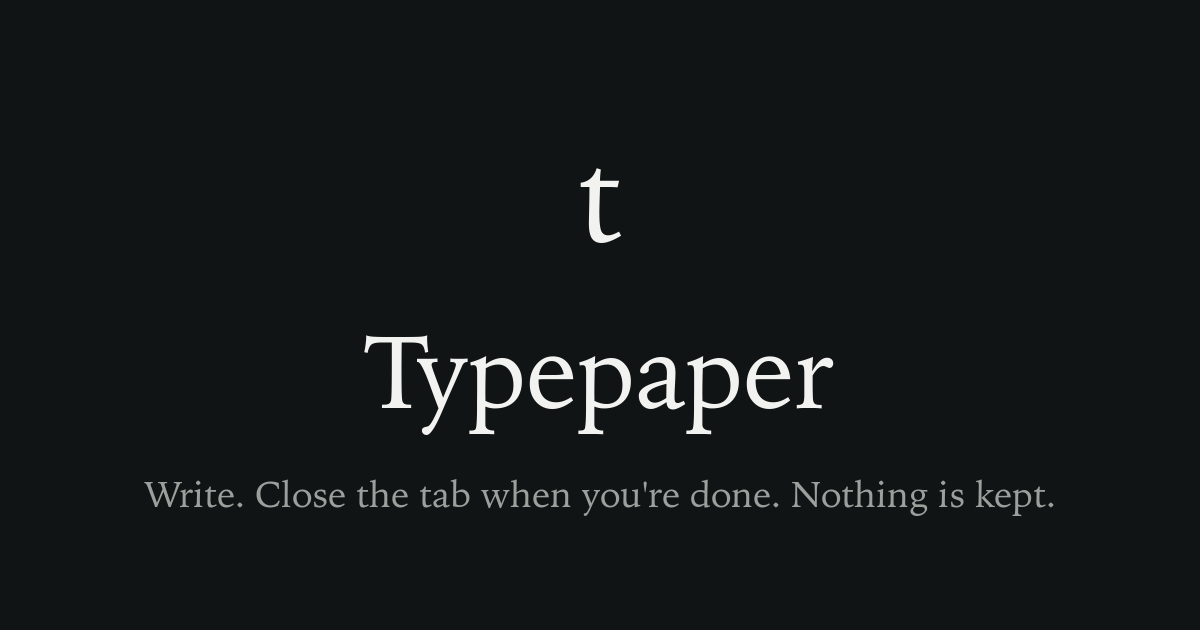
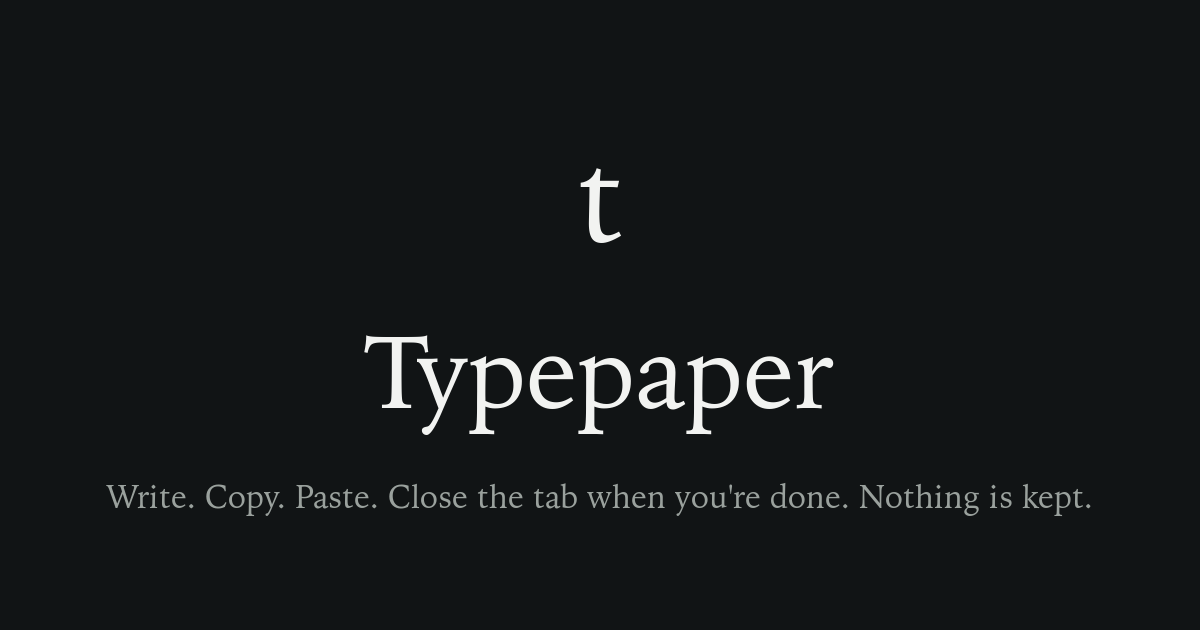
Logline: "Write. Copy. Paste." — placeholder + social card

Changed region(s): [[0.0925, 0.754, 0.8942, 0.8143]]

diff --git a/src/main.ts b/src/main.ts
@@ -26,7 +26,7 @@ const editor = new Editor({
       trailingNode: false,
       heading: { levels: [1, 2, 3] },
     }),
-    Placeholder.configure({ placeholder: "Write. Close the tab when you're done. Nothing is kept." }),
+    Placeholder.configure({ placeholder: "Write. Copy. Paste. Close the tab when you're done. Nothing is kept." }),
   ],
   editorProps: {
     attributes: {
